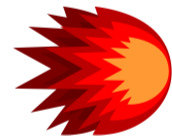
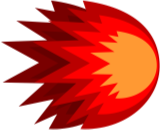
death added for Drone

diff --git a/src/engine/Drone.py b/src/engine/Drone.py
@@ -7,8 +7,9 @@ class Drone:
     
     def __init__(self,x,y,look,target):
         
-        
-        
+        self.health=100
+        self.Alive=True
+        self.death_frame_flag=False
         self.x_pos=x
         self.y_pos=y
         self.hitbox = pygame.Rect(self.x_pos, self.y_pos, 100, 53)
@@ -19,12 +20,16 @@ class Drone:
         self.speed=2
         self.look=look
         self.target=target
-        self.reload_duration=4000
+        self.reload_duration=7000
         self.last_shot=0
         self.aimed=False
         
         
         self.aim_teta=0
+        
+        
+        self.freez_durtation=5000
+        self.last_freezed=0   # برای چند تا پلیر باید هندل شن
         
         
         
@@ -72,6 +77,19 @@ class Drone:
                 )
                 
             )
+        heights=[50,49,47,47,50,38,38,39]  
+        self.death_frames=[]
+        for i in range(8):
+            self.death_frames.append(
+                pygame.transform.scale(
+                    pygame.image.load(
+                        os.path.join(base_path ,'Death', f"{i}.png")
+                    ),
+                    (100,heights[i])
+                )
+                
+            )
+            
             
         self.display_pic=self.Idle_frames[0] 
         self.animation_speed  = 15 
@@ -90,7 +108,7 @@ class Drone:
             
     def display(self,screen,offset):
         
-        if self.look=='right':
+        if self.look=='right' :
             screen.blit(self.display_pic,(self.x_pos- offset[0],self.y_pos - offset[1]))
         elif self.look=='left':
             screen.blit(pygame.transform.flip(self.display_pic,True,False),(self.x_pos- offset[0],self.y_pos - offset[1]))
@@ -104,7 +122,7 @@ class Drone:
     def Update_animtion(self):
         current_time=pygame.time.get_ticks()
         elapsed_time=current_time -  self.Last_animationUpdate 
-        if elapsed_time>= self.animation_speed:
+        if elapsed_time>= self.animation_speed and not self.death_frame_flag:
             if self.status=='idle':
                 self.frame_index= (elapsed_time)%len(self.Idle_frames)
                 self.display_pic=self.Idle_frames[self.frame_index]
@@ -127,6 +145,19 @@ class Drone:
                 self.frame_index= (elapsed_time)%len(self.Forward_frames)
                 self.display_pic=self.Forward_frames[self.frame_index]
                 self.Last_animationUpdate=current_time
+                
+            elif self.status=='dead':
+                self.animation_speed=100
+                self.frame_index= (elapsed_time)%len(self.death_frames)
+                self.display_pic=self.death_frames[self.frame_index]
+                self.Last_animationUpdate=current_time
+                if self.frame_index==7:
+                    self.death_frame_flag=True
+        
+        else:
+            self.display_pic=self.death_frames[7]
+                
+                
                 
                 
         
@@ -191,9 +222,8 @@ class Drone:
     
     def shoot(self):
         current_time=pygame.time.get_ticks()  
-        if current_time - self.last_shot>=self.reload_duration:
+        if current_time - self.last_shot>=self.reload_duration and self.target.y_pos > self.y_pos   :
             if self.aimed:
-                print(self.aim_teta)
                 self.bullets.append(
                     bullet(self.x_pos,self.y_pos,self.target.x_pos+60,self.target.y_pos+20,8)
                 )
@@ -202,7 +232,9 @@ class Drone:
             
             
             
-    def Update(self):
+    def Update(self,bullets_in_air):
+        self.update_alive()
+        self.update_freezing()
         self.Move()
         self.Update_animtion()
         self.Aim()
@@ -210,7 +242,29 @@ class Drone:
         for bullet in self.bullets:
             bullet.update()
             if bullet.hitbox.colliderect(self.target.hitbox):
-                print("hit")
+                self.target.freezed=True
+                self.last_freezed=pygame.time.get_ticks()
+                
+        for bullet in bullets_in_air:
+            if self.hitbox.colliderect(bullet.hitbox):
+                self.health-=50
+                bullets_in_air.remove(bullet)
+                
+                
+    def update_freezing(self):
+        current_time=pygame.time.get_ticks()
+        if self.target.freezed and current_time - self.last_freezed >= self.freez_durtation:
+            self.target.freezed=False 
+            
+            
+    def update_alive(self):
+        if self.health <= 0 :
+            self.status='dead'
+            
+            
+   
+        
+        
             
             
               

diff --git a/src/engine/game.py b/src/engine/game.py
@@ -116,15 +116,15 @@ class Game:
             self.Roboman.respawn() 
 
     # Ninja controls
-        if keys[pygame.K_LEFT]:
+        if keys[pygame.K_LEFT] and not self.ninja.freezed:
             self.ninja.move_left()
             self.ninja_moving = True
-        if keys[pygame.K_RIGHT]:
+        if keys[pygame.K_RIGHT] and not self.ninja.freezed:
             self.ninja.move_right()
             self.ninja_moving = True
-        if keys[pygame.K_UP]:
+        if keys[pygame.K_UP]and not self.ninja.freezed:
             self.ninja.jump()
-        if keys[pygame.K_RSHIFT]:
+        if keys[pygame.K_RSHIFT]and not self.ninja.freezed :
             if not self.ninja.Super_PowerFlag:  
                 self.trigger_shutter(strength=10, duration=1500)
             self.ninja.Activate_Super_Power()
@@ -132,9 +132,9 @@ class Game:
         if not self.ninja_moving:
             self.ninja.stop_horizontal_movement()
             
-        if keys[pygame.K_RCTRL]:
+        if keys[pygame.K_RCTRL]and not self.ninja.freezed:
             self.ninja.shoot(self.shot_bullets, self.bullet_class)
-        if keys[pygame.K_TAB]:
+        if keys[pygame.K_TAB]and not self.ninja.freezed:
             self.ninja.Send_teleport_request(self.gate)
             self.gate.recieve_request(self.ninja)
              
@@ -160,7 +160,7 @@ class Game:
         
         
         
-        self.drone.Update()
+        self.drone.Update(self.shot_bullets)
         
         for i in range(len(self.terrorists)):
             if self.terrorists[i] and self.terrorists[i].status != 'removed':

diff --git a/src/engine/Ninja.py b/src/engine/Ninja.py
@@ -10,6 +10,7 @@ class Ninja:
         self.on_platform = False
         self.current_platform = None
         self.horizontal_auto_speed = 0
+        self.freezed=False
         self.allow_move_right = True
         self.allow_move_left = True
         self.screen_width = screen_width